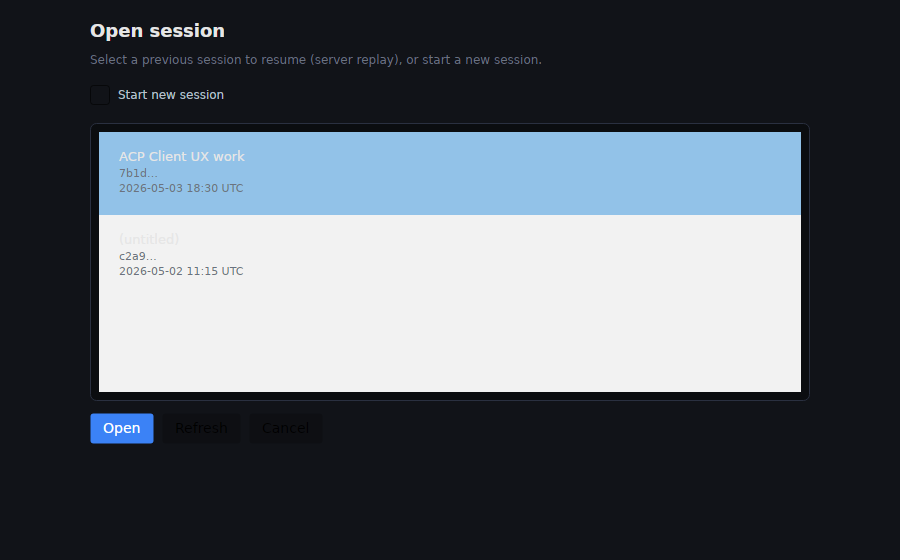
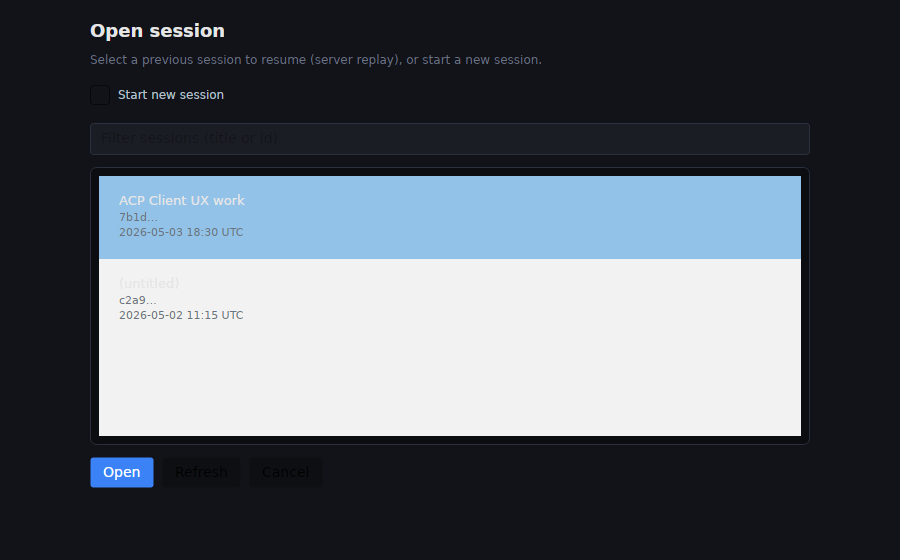
feat(acp-client): filter sessions in picker

Changed region(s): [[0.0933, 0.2125, 0.9022, 0.4857], [0.0933, 0.6982, 0.9022, 0.8804], [0.1244, 0.5161, 0.28, 0.5768]]

diff --git a/src/Agent.Acp.Client.AvaloniaApp/ViewModels/Connection/SessionPickerViewModel.cs b/src/Agent.Acp.Client.AvaloniaApp/ViewModels/Connection/SessionPickerViewModel.cs
@@ -13,6 +13,11 @@ public sealed partial class SessionPickerViewModel : ObservableObject
 
     public ObservableCollection<SessionListItemViewModel> Sessions { get; } = new();
 
+    public ObservableCollection<SessionListItemViewModel> FilteredSessions { get; } = new();
+
+    [ObservableProperty]
+    private string _filterText = string.Empty;
+
     [ObservableProperty]
     private SessionListItemViewModel? _selected;
 
@@ -36,6 +41,11 @@ public sealed partial class SessionPickerViewModel : ObservableObject
         OpenCommand.NotifyCanExecuteChanged();
     }
 
+    partial void OnFilterTextChanged(string value)
+    {
+        ApplyFilter();
+    }
+
     partial void OnStartNewSessionChanged(bool value)
     {
         if (value)
@@ -48,6 +58,42 @@ public sealed partial class SessionPickerViewModel : ObservableObject
     [RelayCommand(CanExecute = nameof(CanOpen))]
     private void Open()
         => OpenRequested?.Invoke(StartNewSession ? null : Selected?.SessionId);
+
+    public void SetSessions(System.Collections.Generic.IEnumerable<SessionListItemViewModel> sessions)
+    {
+        Sessions.Clear();
+        foreach (var s in sessions)
+            Sessions.Add(s);
+
+        ApplyFilter();
+    }
+
+    private void ApplyFilter()
+    {
+        var q = FilterText?.Trim();
+        FilteredSessions.Clear();
+
+        if (string.IsNullOrWhiteSpace(q))
+        {
+            foreach (var s in Sessions)
+                FilteredSessions.Add(s);
+            return;
+        }
+
+        foreach (var s in Sessions)
+        {
+            if (s.DisplayTitle.Contains(q, StringComparison.OrdinalIgnoreCase)
+                || s.SessionId.Contains(q, StringComparison.OrdinalIgnoreCase)
+                || (s.DisplayUpdatedAt?.Contains(q, StringComparison.OrdinalIgnoreCase) ?? false))
+            {
+                FilteredSessions.Add(s);
+            }
+        }
+
+        // If selection is filtered out, clear selection.
+        if (Selected is not null && !FilteredSessions.Contains(Selected))
+            Selected = null;
+    }
 
     [RelayCommand]
     private void Refresh()

diff --git a/tests/Agent.Acp.Client.AvaloniaApp.Tests/SessionPickerScreenshotTests.cs b/tests/Agent.Acp.Client.AvaloniaApp.Tests/SessionPickerScreenshotTests.cs
@@ -11,14 +11,17 @@ public sealed class SessionPickerScreenshotTests
     public void Renders_session_picker_screen()
     {
         var vm = new SessionPickerViewModel();
-        vm.Sessions.Add(new SessionListItemViewModel(
-            sessionId: "7b1d…",
-            title: "ACP Client UX work",
-            updatedAt: "2026-05-03T18:30:00Z"));
-        vm.Sessions.Add(new SessionListItemViewModel(
-            sessionId: "c2a9…",
-            title: null,
-            updatedAt: "2026-05-02T11:15:00Z"));
+        vm.SetSessions(new[]
+        {
+            new SessionListItemViewModel(
+                sessionId: "7b1d…",
+                title: "ACP Client UX work",
+                updatedAt: "2026-05-03T18:30:00Z"),
+            new SessionListItemViewModel(
+                sessionId: "c2a9…",
+                title: null,
+                updatedAt: "2026-05-02T11:15:00Z"),
+        });
         vm.Selected = vm.Sessions[0];
 
         ScreenshotTestHarness.Save(new SessionPickerView { DataContext = vm }, width: 900, height: 560, fileName: "session-picker.png");

diff --git a/src/Agent.Acp.Client.AvaloniaApp/ViewModels/Shell/ShellViewModel.cs b/src/Agent.Acp.Client.AvaloniaApp/ViewModels/Shell/ShellViewModel.cs
@@ -185,17 +185,19 @@ public sealed partial class ShellViewModel : ObservableObject
 
         var list = await AcpClientBootstrap.ListSessionsAsync(_process.Connection, cwd: cwd, cancellationToken: ct);
 
-        SessionPicker.Sessions.Clear();
+        var items = new System.Collections.Generic.List<SessionListItemViewModel>();
         foreach (var s in list.Sessions)
         {
             if (s is null || string.IsNullOrWhiteSpace(s.SessionId))
                 continue;
 
-            SessionPicker.Sessions.Add(new SessionListItemViewModel(
+            items.Add(new SessionListItemViewModel(
                 sessionId: s.SessionId,
                 title: s.Title,
                 updatedAt: s.UpdatedAt));
         }
+
+        SessionPicker.SetSessions(items);
 
         // Default select: most recently updatedAt (best-effort).
         SessionListItemViewModel? best = null;
